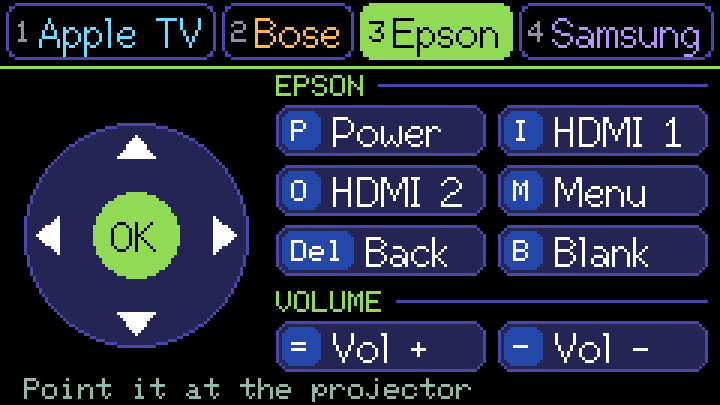
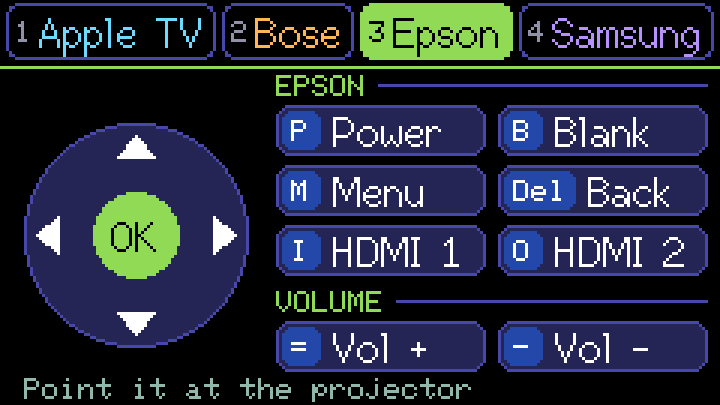
feat(cardputer): put TV Remote's Epson buttons in the order asked for
Power and Blank, then Menu and Back, then HDMI 1 and HDMI 2, as the owner
asked; the volume stays under them. Only the order changes, and the guide's
table and picture follow it.

diff --git a/docs/TV-REMOTE.md b/docs/TV-REMOTE.md
@@ -60,16 +60,16 @@ is in use, and it's kept for next time.
 
 ## 3 Epson
 
-![The Epson page: the arrows around OK for its menus, then Power, HDMI 1, HDMI 2, Menu, Back and Blank, and its volume](assets/screens/tv-remote-epson.png)
+![The Epson page: the arrows around OK for its menus, then Power, Blank, Menu, Back, HDMI 1 and HDMI 2, and its volume](assets/screens/tv-remote-epson.png)
 
 | Key | What it does |
 |---|---|
 | P | Power. To turn it off, press P again when the projector asks |
-| I | HDMI 1 |
-| O | HDMI 2 |
+| B | Blank: the picture and sound off and on, the projector still running |
 | M | Menu |
 | `;` `.` `,` `/`, Enter, Del | Move in its menus, OK and Back |
-| B | Blank: the picture and sound off and on, the projector still running |
+| I | HDMI 1 |
+| O | HDMI 2 |
 | `=` `-` | Volume, as its own remote's volume keys: with its sound going out over HDMI to a soundbar, they turn that up and down |
 
 Epson projectors share one set of codes. These are from the remote of an Epson EH-TW5650, a home
